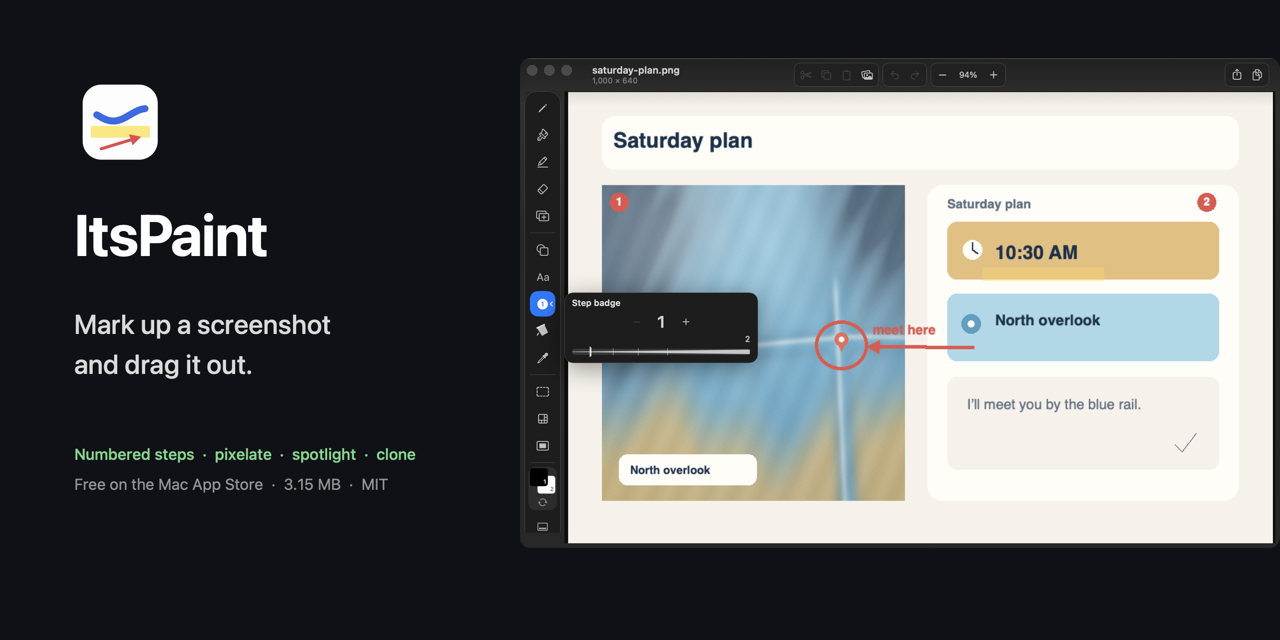
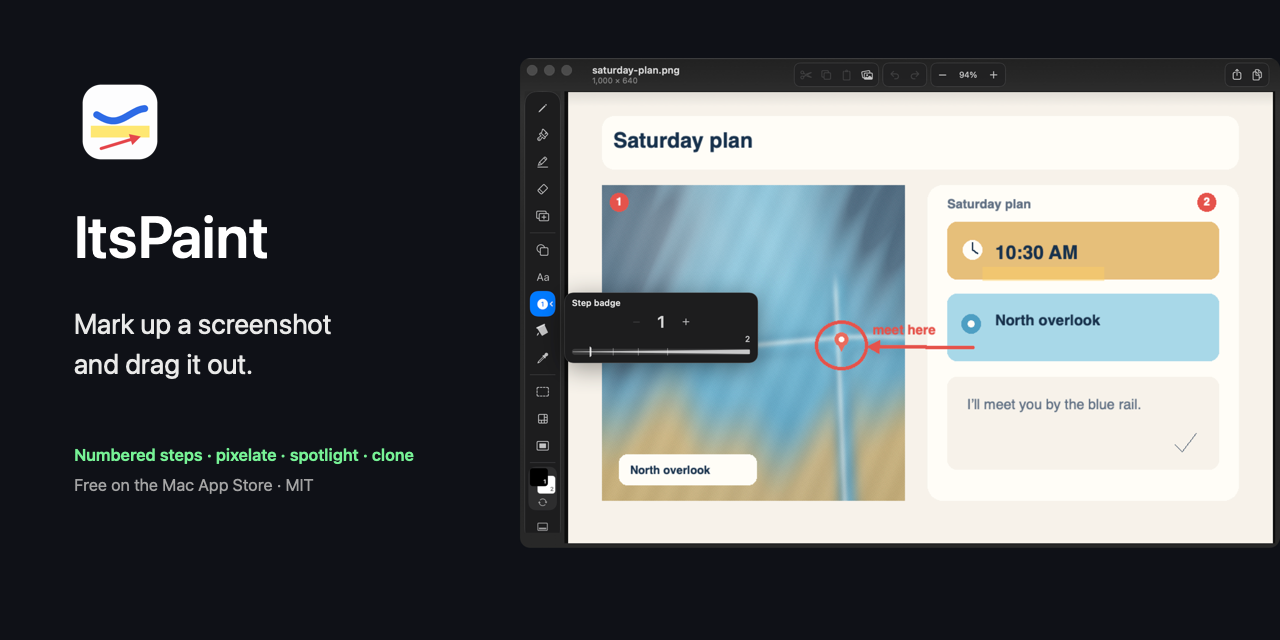
Draw the share card from a script, and take the download size off it (#39)
docs/images/social-preview.png has said "3.15 MB" since 0.16.4; the download is
3.45 MB at 0.21.0. It is the og:image on itspaintmac.com and the repository's
social preview, so every share of either link carried a stale number, and no
checker reads a PNG.

scripts/social-card.swift draws it now, on the Command Line Tools alone. The
window shot is docs/images/social-window.png, cut from the previous card (the
right half is pixel-identical); everything else is drawn in the system font at
the measured sizes and positions. The meta line reads "Free on the Mac App
Store · MIT" — nothing on the card moves on a schedule any more, so nothing on
it needs a per-release check.

diff --git a/scripts/social-card.swift b/scripts/social-card.swift
@@ -1,0 +1,73 @@
+// Draws docs/images/social-preview.png — the 1280×640 card X, Slack, Discord and the
+// landing page's og:image render. Runs on the Command Line Tools alone:
+//
+//     swift scripts/social-card.swift
+//
+// The window shot on the right is docs/images/social-window.png, captured with
+// AppTests/WindowCaptureTests.swift (that needs Xcode). Everything on the left is drawn
+// here, in the system font, so the card can be redrawn without a designer.
+//
+// The card carries no number on purpose. It said "3.15 MB" from 0.16.4 to 0.21.0
+// because a PNG is the one public surface claims.py cannot read, and a size that moves
+// every release is a claim that goes stale on a schedule. What is drawn here is true
+// for as long as the licence and the store listing are.
+import AppKit
+
+let root = URL(fileURLWithPath: CommandLine.arguments[0]).deletingLastPathComponent().deletingLastPathComponent()
+let images = root.appendingPathComponent("docs/images")
+let out = images.appendingPathComponent("social-preview.png")
+
+let size = NSSize(width: 1280, height: 640)
+let background = NSColor(srgbRed: 0x0F/255, green: 0x11/255, blue: 0x17/255, alpha: 1)
+let left: CGFloat = 74
+
+guard let icon = NSImage(contentsOf: images.appendingPathComponent("icon.png")),
+      let window = NSImage(contentsOf: images.appendingPathComponent("social-window.png")) else {
+    FileHandle.standardError.write("missing icon.png or social-window.png in \(images.path)\n".data(using: .utf8)!)
+    exit(1)
+}
+
+// A flipped context: y runs down from the top, which is how the layout was measured.
+let card = NSImage(size: size, flipped: true) { rect in
+    background.setFill()
+    rect.fill()
+
+    // The window shot is cut from the same background colour, so it sits over it
+    // seamlessly. It is placed by its top-left, bled off the right edge.
+    window.draw(in: NSRect(x: 500, y: 40, width: window.size.width, height: window.size.height),
+                from: .zero, operation: .sourceOver, fraction: 1, respectFlipped: true, hints: nil)
+
+    // The icon's rounded square fills 82% of its canvas; 92pt puts the square at 76pt.
+    icon.draw(in: NSRect(x: left, y: 76, width: 92, height: 92),
+              from: .zero, operation: .sourceOver, fraction: 1, respectFlipped: true, hints: nil)
+
+    func text(_ string: String, size: CGFloat, weight: NSFont.Weight, color: NSColor, baseline: CGFloat) {
+        let font = NSFont.systemFont(ofSize: size, weight: weight)
+        let attributed = NSAttributedString(string: string, attributes: [.font: font, .foregroundColor: color])
+        attributed.draw(at: NSPoint(x: left, y: baseline - font.ascender))
+    }
+    text("ItsPaint", size: 58.5, weight: .semibold, color: .white, baseline: 257)
+    let body = NSColor(srgbRed: 0xEA/255, green: 0xEA/255, blue: 0xE9/255, alpha: 1)
+    text("Mark up a screenshot", size: 28, weight: .regular, color: body, baseline: 334)
+    text("and drag it out.", size: 28, weight: .regular, color: body, baseline: 374)
+    let green = NSColor(srgbRed: 0x77/255, green: 0xF3/255, blue: 0x96/255, alpha: 1)
+    text("Numbered steps · pixelate · spotlight · clone", size: 16.5, weight: .semibold, color: green, baseline: 460)
+    let grey = NSColor(srgbRed: 0xA5/255, green: 0xA5/255, blue: 0xA5/255, alpha: 1)
+    text("Free on the Mac App Store · MIT", size: 16.5, weight: .regular, color: grey, baseline: 490)
+    return true
+}
+
+// Rasterise at exactly 1280×640 in sRGB end to end. Drawing into a device-RGB bitmap
+// converts every colour through the display profile, and the file comes out lighter.
+let space = CGColorSpace(name: CGColorSpace.sRGB)!
+let cg = CGContext(data: nil, width: 1280, height: 640, bitsPerComponent: 8, bytesPerRow: 0,
+                   space: space, bitmapInfo: CGImageAlphaInfo.premultipliedLast.rawValue)!
+NSGraphicsContext.saveGraphicsState()
+NSGraphicsContext.current = NSGraphicsContext(cgContext: cg, flipped: false)
+card.draw(in: NSRect(origin: .zero, size: size), from: .zero, operation: .copy, fraction: 1)
+NSGraphicsContext.restoreGraphicsState()
+let rep = NSBitmapImageRep(cgImage: cg.makeImage()!)
+
+let png = rep.representation(using: .png, properties: [:])!
+try png.write(to: out)
+print("wrote \(out.path) \(rep.pixelsWide)x\(rep.pixelsHigh)")

diff --git a/docs/CAPTURE.md b/docs/CAPTURE.md
@@ -187,38 +187,28 @@ demonstrably cannot phone home, and the source is right there.
 ## The share card bakes its claims into pixels
 
 `docs/images/social-preview.png` is what renders on X, Slack, Discord and LinkedIn,
-and as the landing page's `og:image`. It is generated, and it carries text: the app
-name, the job, and a download size.
+as the landing page's `og:image`, and as the repository's social preview on GitHub. It
+is drawn by `scripts/social-card.swift`, which runs on the Command Line Tools alone:
 
-No checker can read a PNG. `claims.py` catches a stale number in prose and
-`surfaces.py` catches one on the landing page, and both would sail past a share card
-that had been wrong for six releases — which is exactly how the card came to be
-advertising a chameleon and three measured-dead hooks for a fortnight.
+```sh
+swift scripts/social-card.swift
+```
 
-So the size the card was drawn with was written here, in a file `claims.py` reads, on
-the theory that when the download grows this line fails and regenerating the card is
-the fix rather than editing the number.
+The window shot on the right is `docs/images/social-window.png`, captured with
+`AppTests/WindowCaptureTests.swift` (that part needs Xcode) with `clipboard-markup.png`
+loaded and the step-badge tool active. Recapture it when the tool rail changes; the
+script places it and draws everything else in the system font.
 
-**That did not hold, and the way it failed is worth more than the mechanism was.**
-Read on 2026-08-21, the card renders `"3.15 MB"`. This paragraph claimed `3.16`. So the
-line meant to mirror the card had drifted from the card, and nothing noticed, because
-`claims.py` was comparing this number to *the release* — a comparison that goes red
-every time a release ships, for a reason that has nothing to do with the PNG. It fired
-on 0.16.4 exactly as designed and the artifact it is about was already two releases
-stale. **A tripwire that is checked against a proxy is a tripwire for the proxy.**
+**The card carries no number, on purpose.** From 0.16.4 to 0.21.0 it said "3.15 MB"
+while the download grew to 3.45, because a PNG is the one public surface `claims.py`
+cannot read, and the sentence that was meant to mirror the card — a size written here,
+in a file the checker does read — drifted from the card itself within a fortnight,
+undetected, because the checker was comparing it to the *release*. A tripwire checked
+against a proxy is a tripwire for the proxy. A download size moves every release, so a
+card that states one is stale on a schedule; "Free on the Mac App Store · MIT" is true
+for as long as the licence and the listing are, and needs no check. The size hook was
+measured weak anyway (`hooks.tsv`: a size in an HN title, n=32, median 2 points).
 
-The card is therefore knowingly stale: it says `"3.15 MB"` against a measured 3.17.
-Nobody is misled by a two-hundredths-of-a-megabyte error in a number whose whole job is
-"this is small", so it is not worth a hand-composed replacement that would not match
-the original's type. It
-gets redrawn the next time the generator runs. The size is in quotes above because it
-is a *quotation of the artifact*, which is the one thing this line can be honest
-about; comparing it to the release was never a check on the card at all.
-
-Regenerate: capture a window with `WindowCaptureTests` — that part is real, it is in
-`AppTests/WindowCaptureTests.swift` — then compose. The card is 1280×640 and the window
-shot is bled off the right edge. **There is no compose script.** This paragraph said it
-"lives with the promo tooling" and it does not live there or anywhere else in this
-repository, which is the practical reason the card has not been redrawn in six
-releases: the instruction named a tool that was never written. Whoever redraws it
-writes that tool first, and should put it somewhere a path can point at.
+GitHub keeps its own copy of this file: the repository social preview is uploaded in
+Settings and has no API, so a regenerated card is not live on shares of the repo link
+until it is uploaded again (`~/.itspaint-promo/upload.js` does it over CDP).
